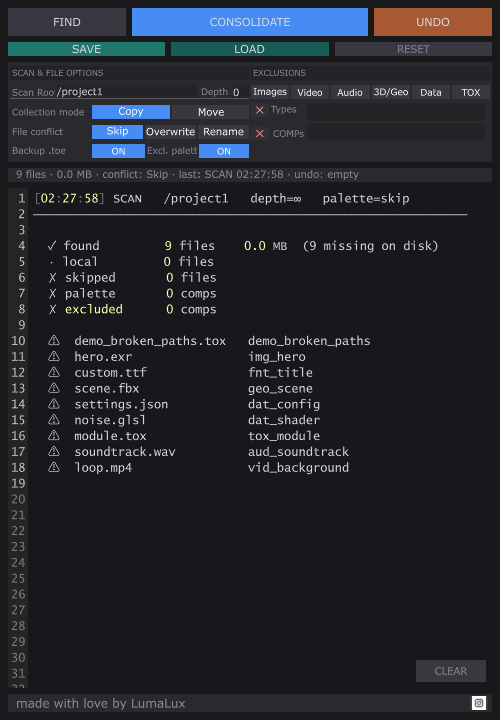
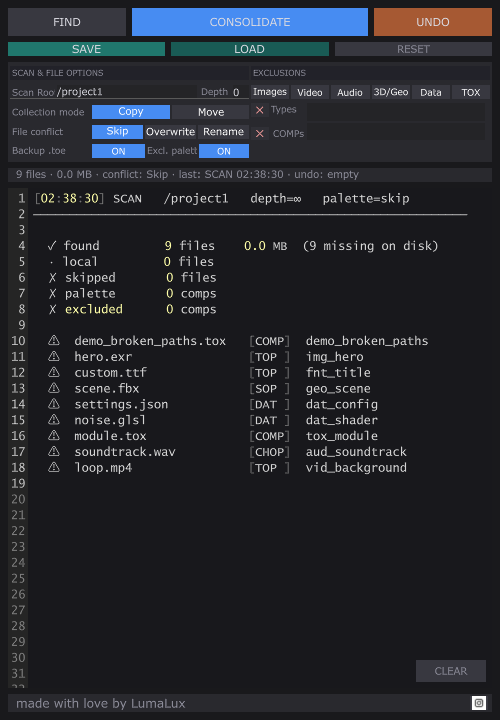
v0.3.0: OP family in log, GIF demo, repo hygiene
- Scan log now shows [TOP]/[COMP]/[SOP]/[DAT]/[CHOP] family tag per entry
- Add animated demo.gif to README screenshots section
- Add beta disclaimer note to README
- Add Files_Table full-path access note to Internal DATs section
- Add CHANGELOG.md with v0.3.0 release notes
- Add .github/ISSUE_TEMPLATE/bug_report.md

Changed region(s): [[0.48, 0.4583, 0.84, 0.6722], [0.12, 0.275, 0.15, 0.3056]]

diff --git a/.github/ISSUE_TEMPLATE/bug_report.md b/.github/ISSUE_TEMPLATE/bug_report.md
@@ -1,0 +1,33 @@
+---
+name: Bug report
+about: Something didn't work as expected
+labels: bug
+---
+
+**TD version**  
+<!-- e.g. 2025.32460 -->
+
+**OS**  
+<!-- Windows / macOS -->
+
+**What happened**  
+<!-- Short description -->
+
+**Steps to reproduce**  
+1. 
+2. 
+3. 
+
+**Expected behavior**  
+
+**Log output**  
+<!-- Paste the full log from the CollectTDProject log viewer (FIND or CONSOLIDATE run) -->
+```
+paste here
+```
+
+**Project details** *(optional)*  
+- Scan root: `/project1` or subtree?
+- Approx. number of file references found:
+- Move or Copy mode:
+- Any exclusions active?

diff --git a/CHANGELOG.md b/CHANGELOG.md
@@ -1,0 +1,28 @@
+# Changelog
+
+All notable changes are documented here. Format follows [Keep a Changelog](https://keepachangelog.com/).
+
+## [0.3.0] — 2026-05-07 · Beta
+
+### Added
+- Broken-path detection: ⚠ marker flags missing source files in the scan log
+- Replayable relocation log: `<project>.relocation_<TS>.py` written after each CONSOLIDATE — run `python <file>.py` from any terminal to reverse a transfer, even after TD is closed
+- Scan log shows OP short name and family type (TOP / CHOP / SOP / COMP / DAT) per entry
+- Preset save/load with per-project smart defaults and auto-increment on filename collision
+- Safety `.toe` backup toggle: saves `<project>.original.toe` once before any change
+- Per-field reset buttons (`×`) for Types and COMPs; global `RESET` for all settings
+- Hover tooltips on every UI control (shown in the status bar)
+
+### Changed
+- Panel UI redesigned and compacted
+- Exclusion palette toggle relocated to Safety row
+- Version scheme changed to 0.x.y (pre-1.0 beta)
+- TD version requirement relaxed to TouchDesigner 2025 (any build)
+
+## [0.2.0]
+
+- Reset buttons, preset save/load, `.toe` safety backup
+
+## [0.1.0]
+
+- Panel dispatch fix, tooltip system, editable inputs, demo fixture

diff --git a/README.md b/README.md
@@ -6,11 +6,20 @@
 
 A TouchDesigner utility component that scans your project for external file dependencies, copies or moves them into a local folder structure, and rewrites operator parameters to relative paths — making your project fully portable.
 
+> **Beta** — Core functionality is stable. Edge cases with unusual project layouts may produce unexpected results. Please [open an issue](../../issues) if you encounter problems.
+
 ---
 
 ## Screenshots
 
+![Demo](screenshots/demo.gif)
+
+<details>
+<summary>Static screenshot</summary>
+
 ![Panel UI](screenshots/01_panel_ui.png)
+
+</details>
 
 ---
 
@@ -172,7 +181,7 @@ These DATs are accessible inside the component if you need to read results progr
 
 | DAT | Contents |
 |-----|----------|
-| `Files_Table` | All found file references: directory, filename, extension, OP path, file size, parameter name, **`Exists`** column (`'1'` if the source file is on disk, `'0'` if broken/missing) |
+| `Files_Table` | All found file references: directory, filename, extension, OP path, file size, parameter name, **`Exists`** column (`'1'` if the source file is on disk, `'0'` if broken/missing). **Full paths are here** — open the DAT viewer (`A` on the node) to read and copy-paste any path. |
 | `Log` | Full log output from last run |
 | `Status_Data` | Summary row: file count, total MB, last action, timestamp, undo state |
 | `Undo_Log` | Reversible actions for the in-component single-step UNDO |